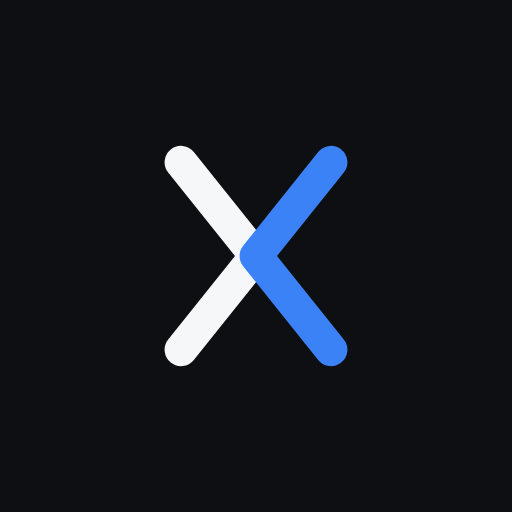
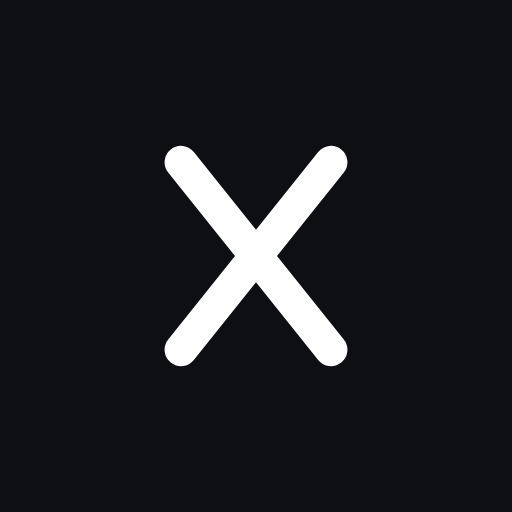
fix(brand): enforce strictly monochrome brand mark and regenerate assets

Changed region(s): [[0.4688, 0.2812, 0.6875, 0.7188]]

diff --git a/frontend/app/brand/page.tsx b/frontend/app/brand/page.tsx
@@ -86,10 +86,9 @@ export default function BrandPage() {
                 Scale & Color Variations
               </h3>
               <p style={{ fontSize: 'var(--text-xs)', color: 'var(--color-text-muted)', lineHeight: 1.6 }}>
-                <strong>Dark theme:</strong> Primary chevron in #F6F7F8, secondary in #3B82F6.<br/>
-                <strong>Light theme:</strong> Primary chevron in #0F172A, secondary in #2563EB.<br/>
-                <strong>Monochrome:</strong> Flat white or ink for single-color production.<br/>
-                <strong>Reversed:</strong> Accent lead with neutral follower for badge accents.
+                <strong>Theme-adaptive monochrome:</strong> Both chevrons render in <code>var(--color-text)</code> (#F6F7F8 in dark theme, #0F172A in light theme). Zero glow, zero gradients, zero pulse, and zero color tinting.<br/>
+                <strong>Print / Mono:</strong> Pure 100% ink on paper or pure white on dark media.<br/>
+                <strong>Inverted:</strong> Automatically adjusts stroke contrast with surrounding container surface.
               </p>
             </div>
           </div>

diff --git a/frontend/app/components/ui/logo.tsx b/frontend/app/components/ui/logo.tsx
@@ -51,7 +51,7 @@ export function Logo({ size = 'md', showWordmark = true, className }: LogoProps)
         {/* Right bracket — offset to interlock */}
         <path
           d="M24 6L16 16L24 26"
-          stroke="var(--color-accent)"
+          stroke="var(--color-text)"
           strokeWidth="3"
           strokeLinecap="round"
           strokeLinejoin="round"
